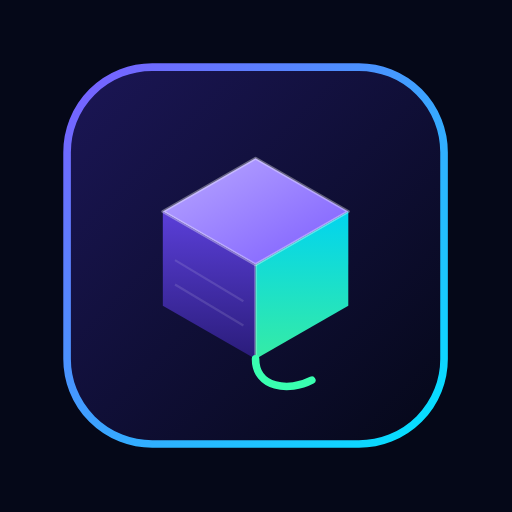
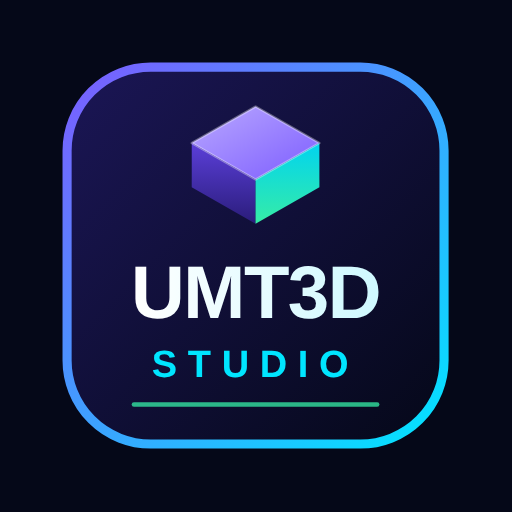
brand: ikonun içine UMT3D STUDIO adı eklendi; menü ikonu büyütüldü, PWA ikonları yenilendi
Claude-Session: https://claude.ai/code/session_01RSmgmpKbRDfjFhLARb7fjN

diff --git a/css/site.css b/css/site.css
@@ -836,8 +836,8 @@ body{
 /* ==========================================================================
    Marka ikonu, ana ekran sahnesi (P2S yazıcı · logo · filament rulosu)
    ========================================================================== */
-.mark-img{ width:34px; height:34px; display:block; border-radius:8px; flex:none; filter:drop-shadow(0 0 12px color-mix(in srgb, var(--accent-2) 35%, transparent)); }
-.mark-img-sm{ width:30px; height:30px; }
+.mark-img{ width:44px; height:44px; display:block; border-radius:8px; flex:none; filter:drop-shadow(0 0 12px color-mix(in srgb, var(--accent-2) 35%, transparent)); }
+.mark-img-sm{ width:34px; height:34px; }
 
 .hero-stage{
   display:flex; align-items:center; justify-content:center; gap:clamp(10px,3vw,40px);

diff --git a/calculator.html b/calculator.html
@@ -18,7 +18,7 @@
 <header class="site-header">
   <nav class="nav">
     <a href="index.html" class="brand">
-      <img class="mark-img" src="assets/umt3d-icon.svg" alt="Umt3D Studio" width="34" height="34">
+      <img class="mark-img" src="assets/umt3d-icon.svg" alt="Umt3D Studio" width="44" height="44">
       <div class="brandname">Umt3D Studio<small>FİYATLANDIRMA ARACI</small></div>
     </a>
     <div class="nav-links" id="navLinks">

diff --git a/faq.html b/faq.html
@@ -17,7 +17,7 @@
 <header class="site-header">
   <nav class="nav">
     <a href="index.html" class="brand">
-      <img class="mark-img" src="assets/umt3d-icon.svg" alt="Umt3D Studio" width="34" height="34">
+      <img class="mark-img" src="assets/umt3d-icon.svg" alt="Umt3D Studio" width="44" height="44">
       <div class="brandname">Umt3D Studio<small>FİYATLANDIRMA ARACI</small></div>
     </a>
     <div class="nav-links" id="navLinks">

diff --git a/index.html b/index.html
@@ -17,7 +17,7 @@
 <header class="site-header">
   <nav class="nav">
     <a href="index.html" class="brand">
-      <img class="mark-img" src="assets/umt3d-icon.svg" alt="Umt3D Studio" width="34" height="34">
+      <img class="mark-img" src="assets/umt3d-icon.svg" alt="Umt3D Studio" width="44" height="44">
       <div class="brandname">Umt3D Studio<small>FİYATLANDIRMA ARACI</small></div>
     </a>
     <div class="nav-links" id="navLinks">

diff --git a/privacy.html b/privacy.html
@@ -16,7 +16,7 @@
 <header class="site-header">
   <nav class="nav">
     <a href="index.html" class="brand">
-      <img class="mark-img" src="assets/umt3d-icon.svg" alt="Umt3D Studio" width="34" height="34">
+      <img class="mark-img" src="assets/umt3d-icon.svg" alt="Umt3D Studio" width="44" height="44">
       <div class="brandname">Umt3D Studio<small>FİYATLANDIRMA ARACI</small></div>
     </a>
     <div class="nav-links" id="navLinks">
